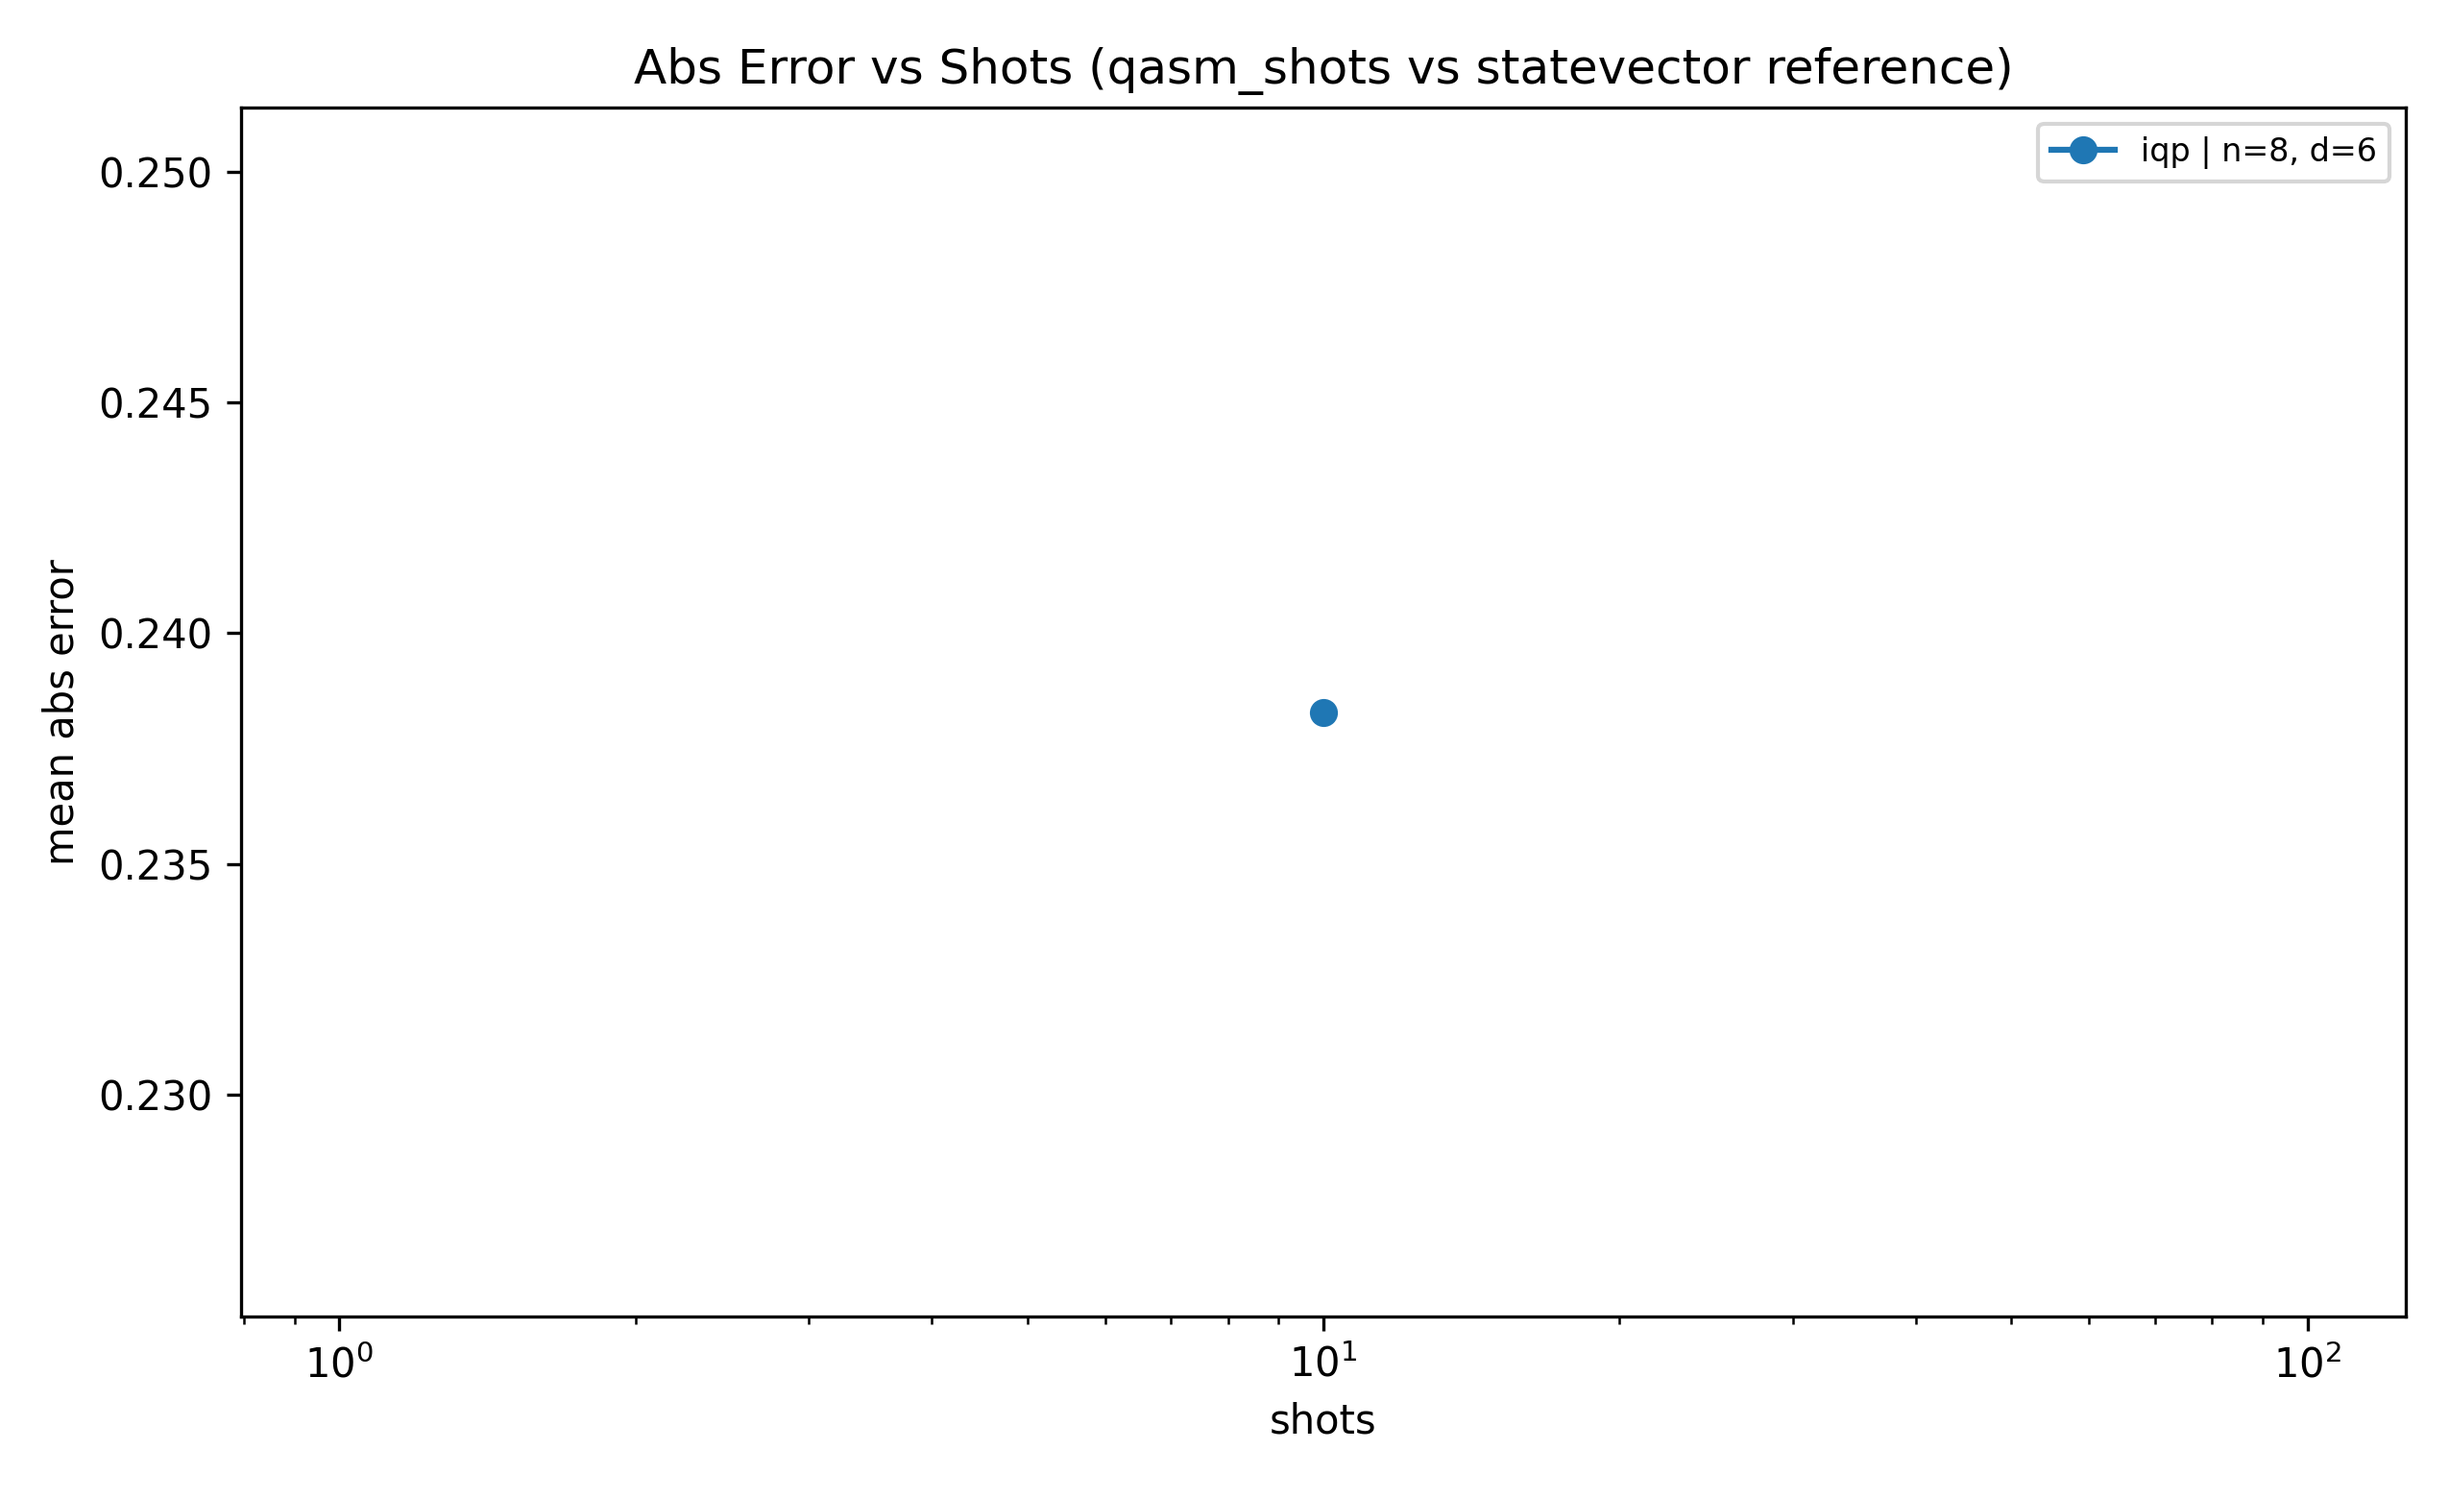
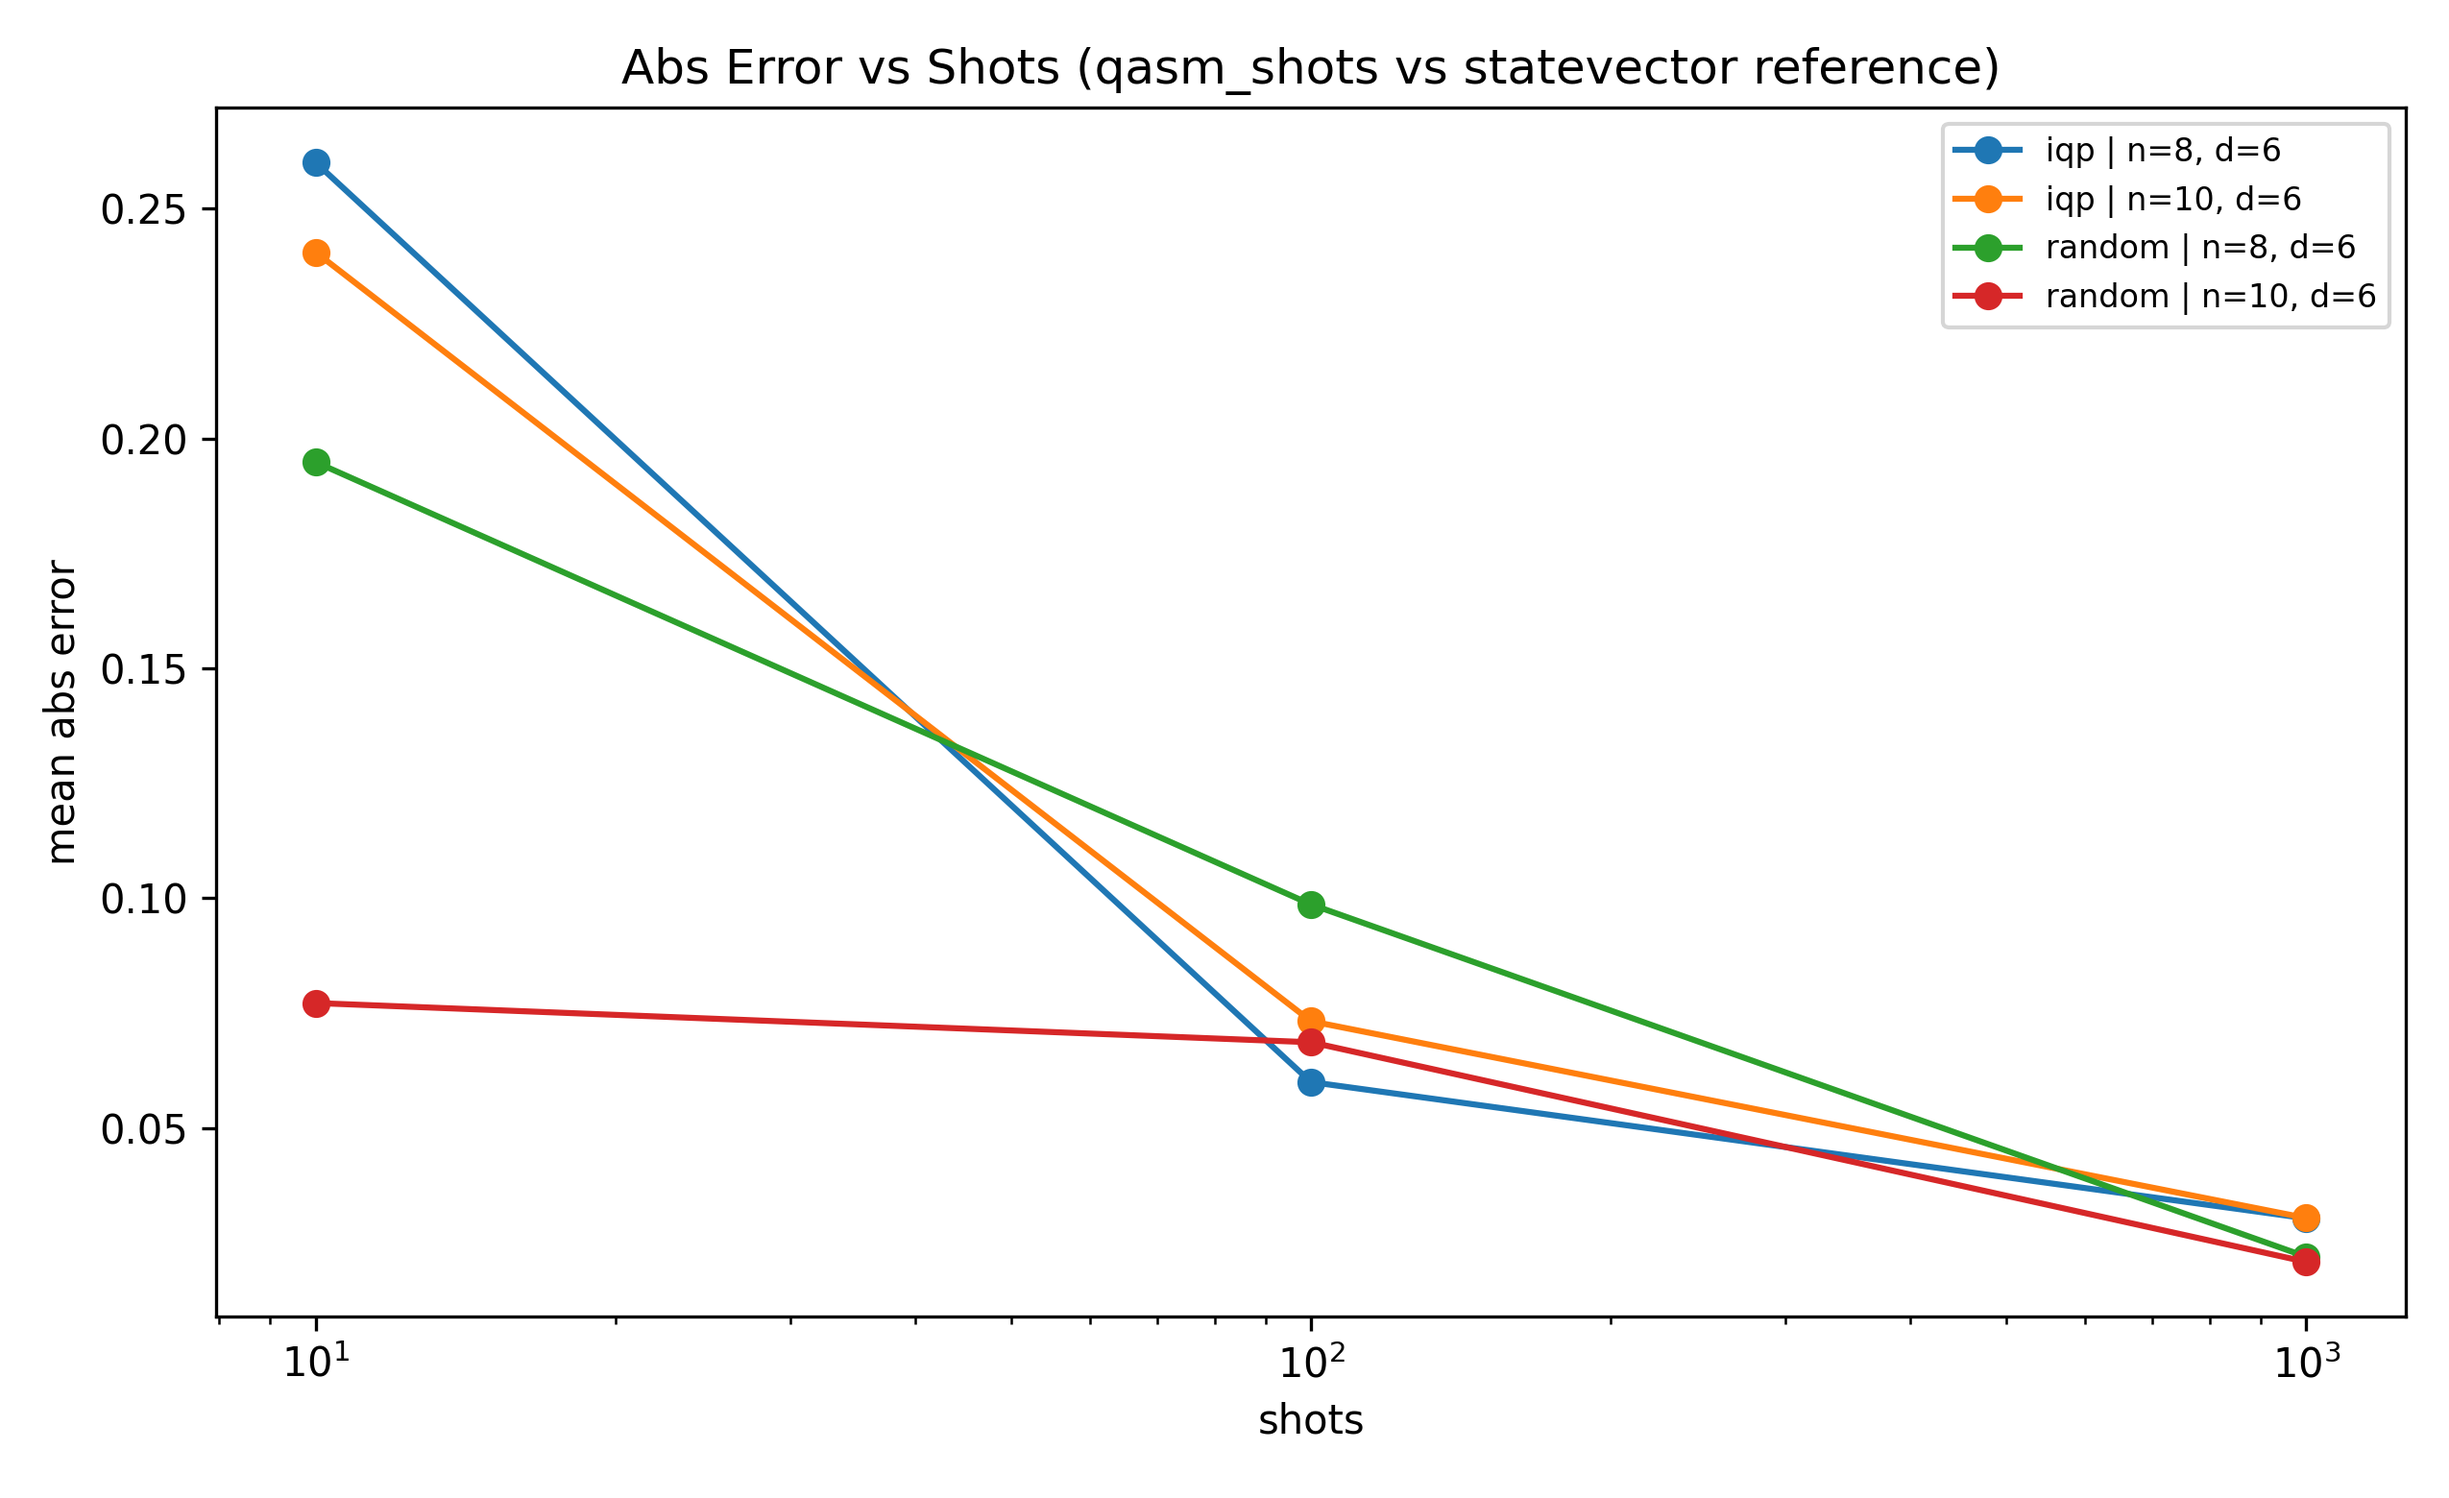
docs(noise-shot-scaling): add full-run findings and threshold runtime table

diff --git a/artifacts/02_noise_shot_scaling/TECHNICAL_MEMO.md b/artifacts/02_noise_shot_scaling/TECHNICAL_MEMO.md
@@ -44,17 +44,37 @@ This artifact is designed to show where empirical curves follow expected behavio
 Each curve is labeled by `circuit_family | n=<n_qubits>, d=<depth>`.
 
 ## 6) Fill After Full Run (No invented claims)
-After running:
+Run executed:
 
 ```bash
 python -m quantum_swe_artifacts.cli run --config configs/noise_shot_scaling_full_001.yaml
 ```
 
-Record here:
-- Observed scaling slope region for each curve family/regime.
-- Any apparent shot-noise floor in mean error.
-- Runtime growth pattern and notable nonlinear regions.
-- Tradeoff recommendation (e.g., shot range where marginal error reduction becomes small relative to runtime increase).
+Observed from `results/noise_shot_scaling_full_001/summary.json`:
+- `mean_abs_error` at 10 shots vs 5000 shots:
+  - `iqp (8,6)`: `0.238289 -> 0.007865`
+  - `iqp (12,8)`: `0.207621 -> 0.009322`
+  - `random (8,6)`: `0.243756 -> 0.007735`
+  - `random (12,8)`: `0.366276 -> 0.010880`
+- Runtime at 10 shots vs 5000 shots:
+  - `iqp (8,6)`: `0.255665s -> 0.276210s`
+  - `iqp (12,8)`: `0.264974s -> 0.296403s`
+  - `random (8,6)`: `0.252319s -> 0.269828s`
+  - `random (12,8)`: `0.255957s -> 0.284540s`
+
+Threshold summary (`mean_abs_error < 1e-2`):
+
+| circuit_family | n_qubits | depth | shots to cross | mean_abs_error at crossing | mean_runtime_s at crossing |
+|---|---:|---:|---:|---:|---:|
+| iqp | 8 | 6 | 5000 | 0.007865 | 0.276210 |
+| iqp | 12 | 8 | 5000 | 0.009322 | 0.296403 |
+| random | 8 | 6 | 5000 | 0.007735 | 0.269828 |
+| random | 12 | 8 | not reached | - | - |
+
+Interpretation constrained to this run:
+- Error decreases strongly with more shots across all tested curves.
+- A strict `1e-2` target is near the tested upper bound; one curve remains slightly above it at 5000 shots.
+- Within this implementation, runtime grows with shots but much less sharply than error shrinks over 10 to 5000 shots.
 
 ## 7) Reproducibility
 - Configs:

diff --git a/artifacts/02_noise_shot_scaling/README.md b/artifacts/02_noise_shot_scaling/README.md
@@ -37,3 +37,17 @@ pytest -q
 ## Notes
 - CI is expected to run only the micro config; full run is manual due to runtime.
 - Full run findings should be recorded in `TECHNICAL_MEMO.md` after execution.
+
+## Key Findings (from `results/noise_shot_scaling_full_001/summary.json`)
+- Mean absolute error decreases substantially as shots increase in all tested curves.
+- Runtime increases with shots over the tested range, but in this setup the increase is moderate relative to the error reduction.
+- At threshold `mean_abs_error < 1e-2`, three of four family/regime curves reach target by 5000 shots.
+
+Threshold table (`mean_abs_error < 1e-2`):
+
+| circuit_family | n_qubits | depth | shots to cross threshold | mean_abs_error at crossing | mean_runtime_s at crossing |
+|---|---:|---:|---:|---:|---:|
+| iqp | 8 | 6 | 5000 | 0.007865 | 0.276210 |
+| iqp | 12 | 8 | 5000 | 0.009322 | 0.296403 |
+| random | 8 | 6 | 5000 | 0.007735 | 0.269828 |
+| random | 12 | 8 | not reached | - | - |
